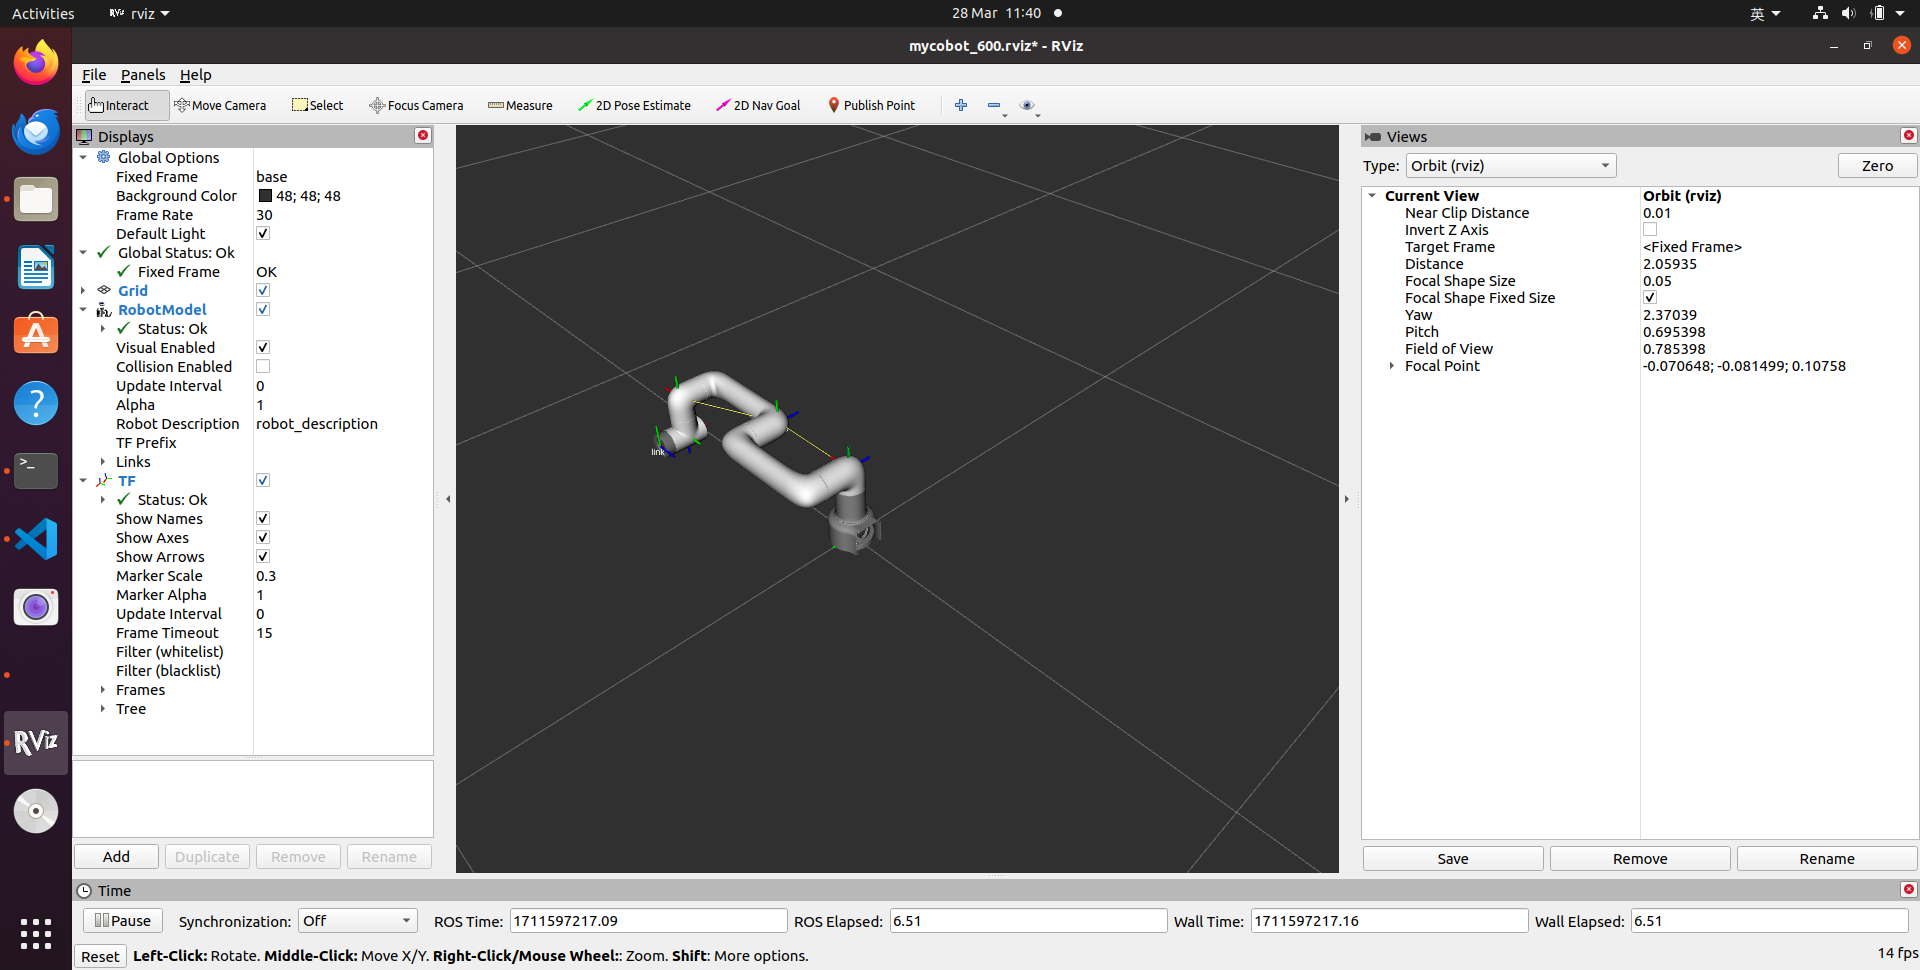
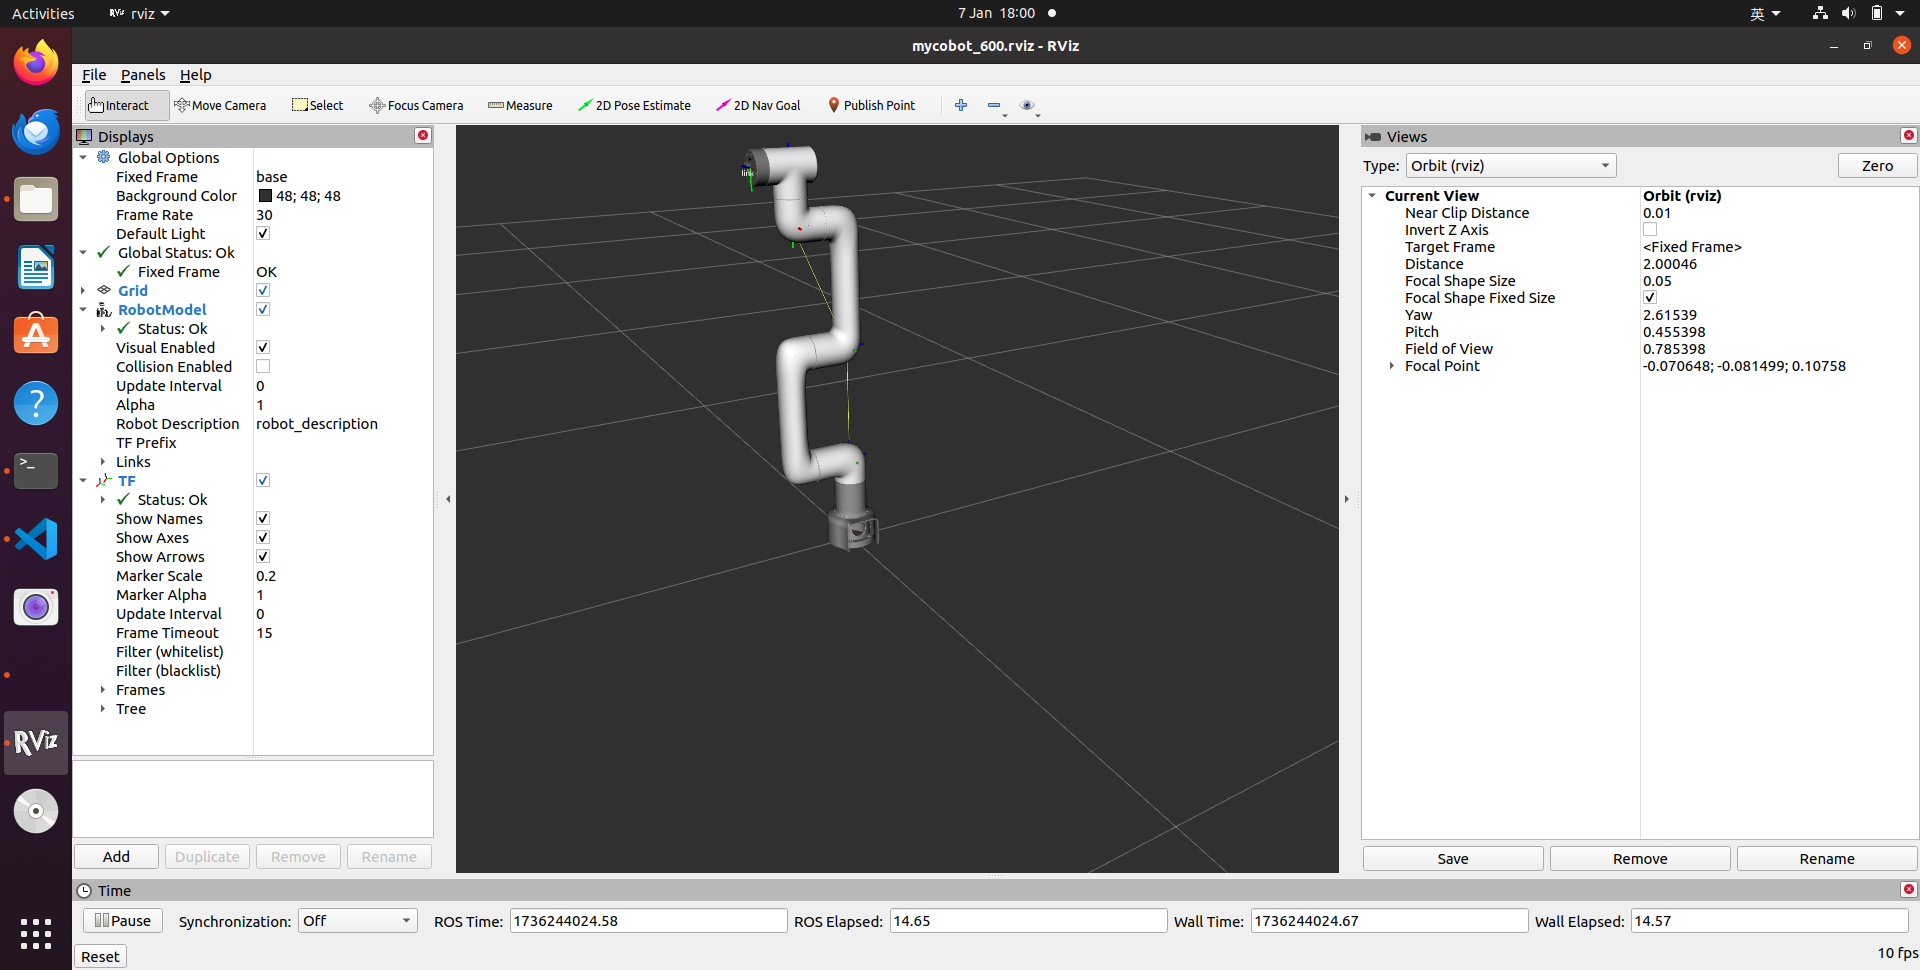
更新pro 600 URDF模型初始姿态

diff --git a/mycobot_pro/mycobot_600/scripts/slider_600.py b/mycobot_pro/mycobot_600/scripts/slider_600.py
@@ -22,6 +22,9 @@ def callback(data):
         radians_to_angles = round(math.degrees(value), 2)
         data_list.append(radians_to_angles)
         
+    data_list[1] = data_list[1] - 90
+    data_list[3] = data_list[3] - 90
+        
     rospy.loginfo(rospy.get_caller_id() + "%s", data_list)
     mc.write_angles(data_list, 1000)
 
